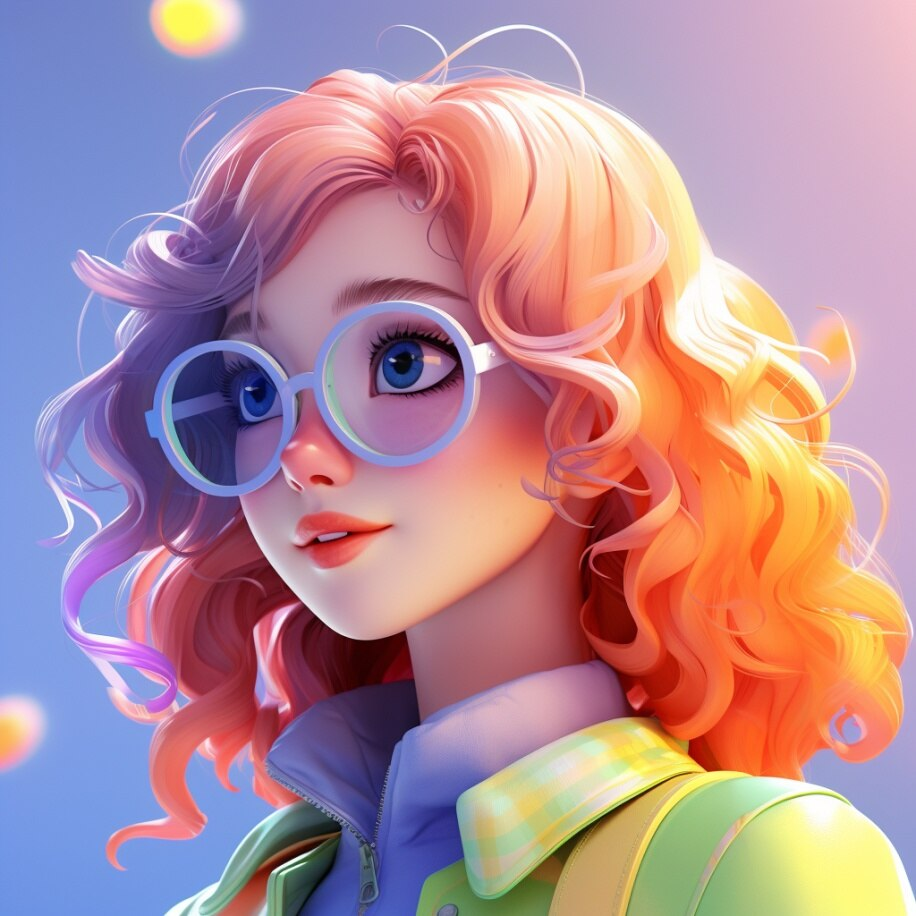
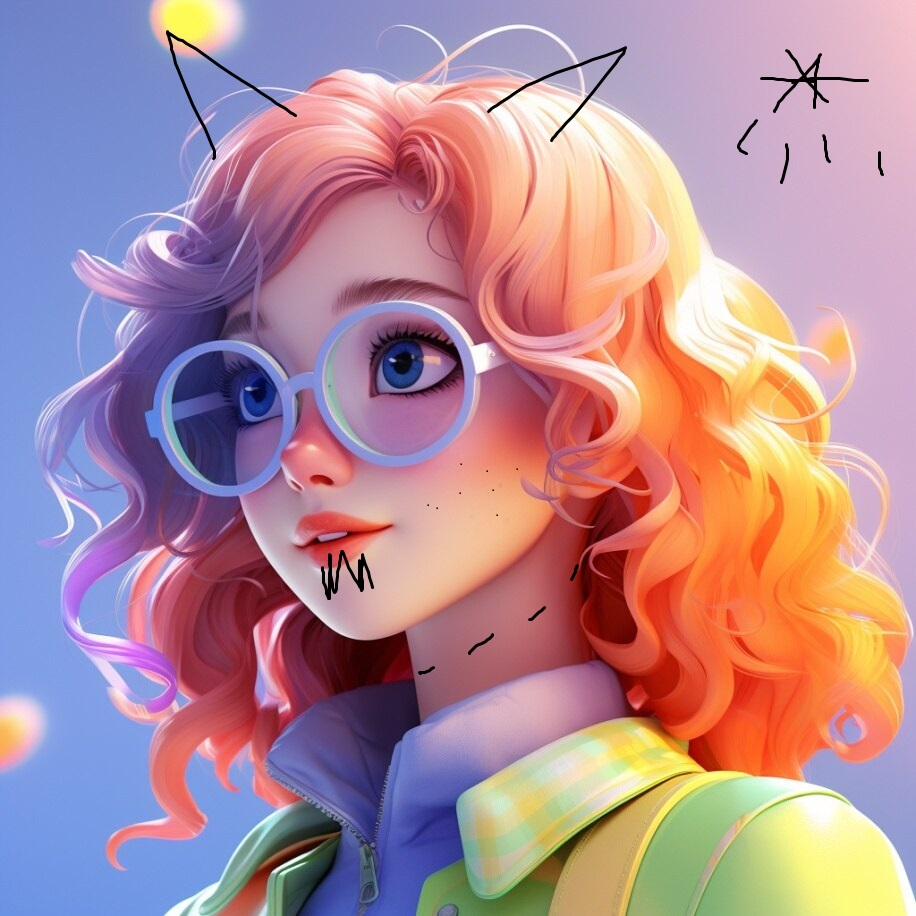
ок

diff --git a/README.md b/README.md
@@ -1,7 +1,7 @@
 # kr1
 первый ПУБЛИЧНЫЙ кролик
-aaaaaa
-21321321321321  
-aaazzzzzzzzzzzzzz
-dsssadsadsadsa![3d-cartoon-style-character_23-2151034021.jpg]({{site.baseurl}}/3d-cartoon-style-character_23-2151034021.jpg)
+[3d-cartoon-style-character_23-2151034021.jpg]({{site.baseurl}}/3d-cartoon-style-character_23-2151034021.jpg)
+
+## 2024-10
+устноавил GitHub Desktop и отредактировал картинку
 
